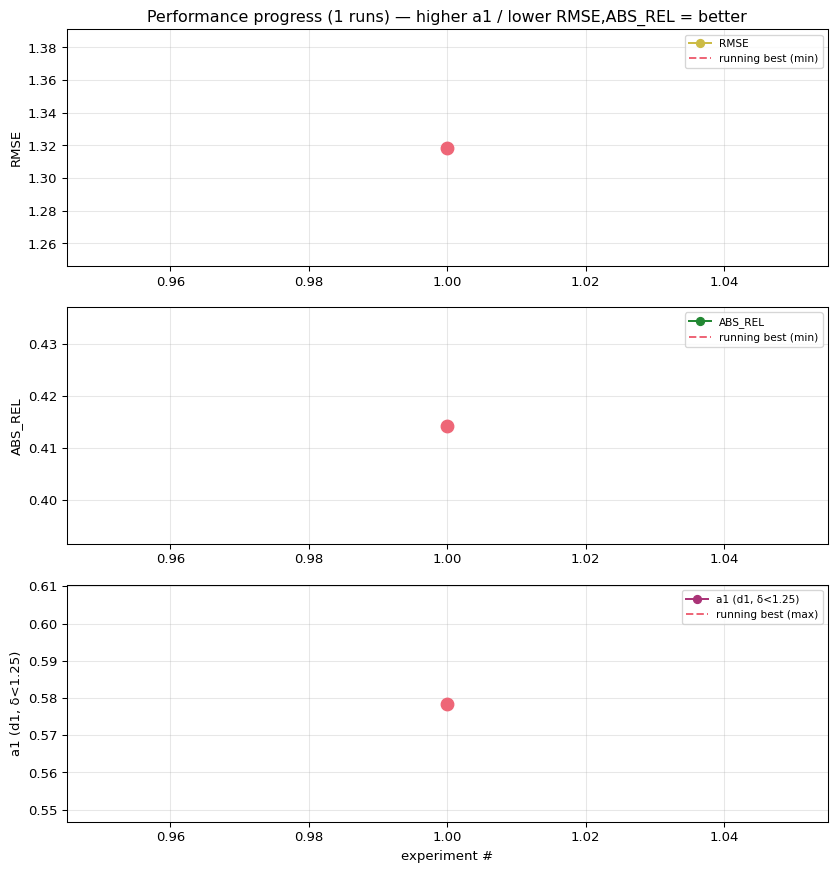
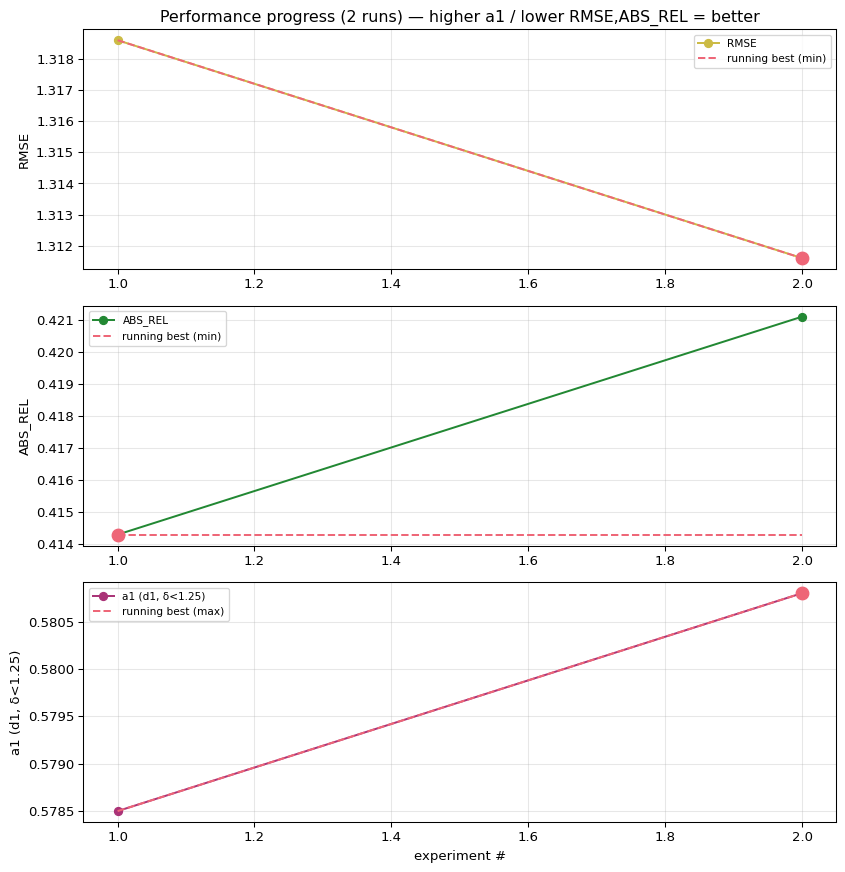
E1: batvision 2ch log (composite 1.8784) -- indistinguishable from E0 nolog
abs_rel 0.4211  rmse 1.3116  d1 0.5808  peak 2.4GB  26 epochs, best at ep14.
Delta vs E0 = 0.0070, below the sigma~0.008 noise floor, and the two runs split the
underlying metrics (log wins rmse+d1, nolog wins abs_rel) -- the signature of noise.
log1p compression does nothing for the bare [L,R] pair. Crown neither.

diff --git a/README.md b/README.md
@@ -30,6 +30,7 @@ running best highlighted):
 | # | commit | ABS_REL | RMSE | d1 | composite | status | description |
 |---|---|---|---|---|---|---|---|
 | 1 | `209c6e8` | 0.4143 | 1.3186 | 0.5785 | 1.8854 | keep | E0 batvision U-Net 2ch [L,R] nolog, planar target, 26ep |
+| 2 | `209c6e8` | 0.4211 | 1.3116 | 0.5808 | 1.8784 | keep | E1 batvision U-Net 2ch [logL,logR] log, planar target, 26ep |
 <!-- RESULTS:END -->
 
 ## Progression (composite, lower = better)